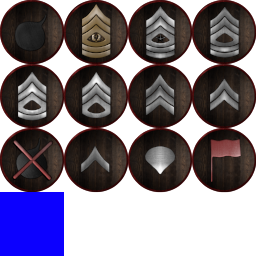
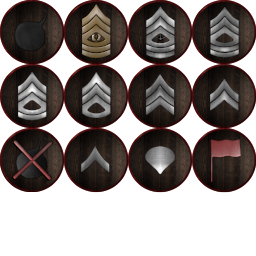
Nouvelles images, resize (buggé) des éléments, meilleure interface

Changed region(s): [[0.0, 0.75, 0.25, 1.0]]

diff --git a/stratego_client.cpp b/stratego_client.cpp
@@ -22,6 +22,20 @@
 #include <thread>
 #include <sstream>
 
+#define DEFAULT_WIDTH 960
+#define DEFAULT_HEIGHT 900
+
+double get_current_scale(gf::Window &window) {
+  double scale = (double)window.getSize().x / DEFAULT_WIDTH;
+  std::cout << "Current scale : " << scale << std::endl;
+  return scale;
+}
+
+/// Calcule la position en fonction de scale
+gf::Vector2u get_current_position(gf::Vector2u default_pos, double scale) {
+  return {(unsigned)(scale * default_pos.x), (unsigned)(scale * default_pos.y)};
+}
+
 #include "c_grid.h"
 
 #include "packet.h"
@@ -198,11 +212,13 @@ bool escFct(tcp::socket* socket, gf::RenderWindow &renderer, gf::UI &ui) {
  * 
  * @return bool true si l'utilisateur a demandé à quitter
  */
-bool displayStateUi(gf::RenderWindow &renderer, gf::UI &ui, State state) {
+bool displayStateUi(gf::Window &window, gf::RenderWindow &renderer, gf::UI &ui, State state) {
   bool ret = false;
 
+  gf::RectF rect(DEFAULT_GRID_X * get_current_scale(window), 0, 640 * get_current_scale(window), 100);
+
   if(state == State::Win) {
-    if(ui.begin("Victoire !", gf::RectF(renderer.getSize().x / 2 - 100, renderer.getSize().y / 2 - 100, 200, 200), gf::UIWindow::Border | gf::UIWindow::Title)) {
+    if(ui.begin("Victoire !", rect, gf::UIWindow::Title)) {
 
       ui.layoutRowDynamic(25, 1);
 
@@ -212,7 +228,7 @@ bool displayStateUi(gf::RenderWindow &renderer, gf::UI &ui, State state) {
     ui.end();
     renderer.draw(ui);
   } else if(state == State::Lose) {
-    if(ui.begin("Défaite...", gf::RectF(renderer.getSize().x / 2 - 100, renderer.getSize().y / 2 - 100, 200, 200), gf::UIWindow::Border | gf::UIWindow::Title)) {
+    if(ui.begin("Défaite...", rect, gf::UIWindow::Title)) {
 
       ui.layoutRowDynamic(25, 1);
 
@@ -224,7 +240,7 @@ bool displayStateUi(gf::RenderWindow &renderer, gf::UI &ui, State state) {
   }
 
   if(state == State::WaitAnswer) {
-    if(ui.begin("Pause", gf::RectF(renderer.getSize().x / 2 - 100, renderer.getSize().y / 2 - 100, 200, 200), gf::UIWindow::Border | gf::UIWindow::Title)) {
+    if(ui.begin("Pause", rect, gf::UIWindow::Title)) {
 
       ui.layoutRowDynamic(25, 1);
 
@@ -236,7 +252,7 @@ bool displayStateUi(gf::RenderWindow &renderer, gf::UI &ui, State state) {
   }
 
   if(state == State::WaitUpdate || state == State::WaitPlayer) {
-    if(ui.begin("Pause", gf::RectF(renderer.getSize().x / 2 - 100, renderer.getSize().y / 2 - 100, 200, 200), gf::UIWindow::Border | gf::UIWindow::Title)) {
+    if(ui.begin("Pause", rect, gf::UIWindow::Title)) {
 
       ui.layoutRowDynamic(25, 1);
 
@@ -253,7 +269,7 @@ bool displayStateUi(gf::RenderWindow &renderer, gf::UI &ui, State state) {
 
   if(state == State::FatalError) {
     // Afficher la fenêtre d'UI
-    if(ui.begin("Erreur", gf::RectF(renderer.getSize().x / 2 - 100, renderer.getSize().y / 2 - 100, 200, 200), gf::UIWindow::Border | gf::UIWindow::Title)) {
+    if(ui.begin("Erreur", rect, gf::UIWindow::Title)) {
 
       ui.layoutRowDynamic(25, 1);
 
@@ -276,7 +292,7 @@ int main(int argc, char *argv[]) {
   srand(time(NULL));
 
   // Initialisation
-  static constexpr gf::Vector2u ScreenSize(768, 700);
+  static constexpr gf::Vector2u ScreenSize(DEFAULT_WIDTH, DEFAULT_HEIGHT);
   gf::Window window("Petit jeu en réseau (client)", ScreenSize);
   window.setFramerateLimit(60);
   gf::RenderWindow renderer(window);
@@ -301,11 +317,11 @@ int main(int argc, char *argv[]) {
   // Grille du jeu
   Grid g(resources);
   g.createGrid();
-  g.setPosition({32, 0});
+  g.setPosition(get_current_position({DEFAULT_GRID_X, DEFAULT_GRID_Y}, get_current_scale(window)));
   entities.addEntity(g);
 
   Selection s(resources);
-  s.setPosition({0, g.getPosition().y + (10 * g.TileSize)});
+  s.setPosition(get_current_position({DEFAULT_SELECT_X, DEFAULT_SELECT_Y}, get_current_scale(window)));
   entities.addEntity(s);
 
   // Boucle de jeu
@@ -348,8 +364,6 @@ int main(int argc, char *argv[]) {
   while(state != State::Connected && window.isOpen()) {
     gf::Event event;
 
-    std::cout << window.getSize().x << window.getSize().y << std::endl;
-
     while(window.pollEvent(event)) {
       actions.processEvent(event);
       ui.processEvent(event);
@@ -391,7 +405,7 @@ int main(int argc, char *argv[]) {
 
     // Fenetre de selection du serveur
     // Afficher la fenêtre d'UI
-    if(ui.begin("Serveur", gf::RectF(0, 0, renderer.getSize().x, renderer.getSize().y), gf::UIWindow::Border | gf::UIWindow::Minimizable | gf::UIWindow::Title)) {
+    if(ui.begin("Serveur", gf::RectF(0, 0, window.getSize().x, window.getSize().y), gf::UIWindow::Border | gf::UIWindow::Title)) {
 
       ui.layoutRowDynamic(30, 1);
 
@@ -620,6 +634,9 @@ int main(int argc, char *argv[]) {
       }
 
       // Update
+      g.update_scale(get_current_scale(window));
+      s.update_scale(get_current_scale(window));
+
       gf::Time time = clock.restart();
       g.update(time);
       // entities.update(time);
@@ -732,7 +749,7 @@ int main(int argc, char *argv[]) {
         }
       }
 
-      if(displayStateUi(renderer, ui, state)) {
+      if(displayStateUi(window, renderer, ui, state)) {
         state = State::Exit;
       }
 
@@ -820,6 +837,9 @@ int main(int argc, char *argv[]) {
     }
 
     // Update
+    g.update_scale(get_current_scale(window));
+    s.update_scale(get_current_scale(window));
+
     gf::Time time = clock.restart();
     g.update(time);
     // entities.update(time);
@@ -917,7 +937,7 @@ int main(int argc, char *argv[]) {
       }
     }
 
-    if(displayStateUi(renderer, ui, state)) {
+    if(displayStateUi(window, renderer, ui, state)) {
       state = State::Exit;
     }
 

diff --git a/c_piece.cpp b/c_piece.cpp
@@ -21,11 +21,13 @@ Selection::Selection(gf::ResourceManager& resources)
 }
 
 void Selection::setPosition(gf::Vector2f origin) {
-  m_layer.setPosition(origin);
+  // m_layer.setPosition(origin);
+  position = origin;
 }
 
 gf::Vector2f Selection::getPosition() {
-  return m_layer.getPosition();
+  // return m_layer.getPosition();
+  return get_current_position(position, scale);
 }
 
 Piece Selection::getPiece(gf::Vector2u coords) {
@@ -69,6 +71,11 @@ gf::Vector2i Selection::getPieceCoordsFromMouse(gf::Vector2f coords) {
   return {(int)((coords.x - getPosition().x) / TileSize), (int)((coords.y - getPosition().y) / TileSize)};
 }
 
+void Selection::update_scale(double new_scale) {
+  scale = new_scale;
+  TileSize = DEFAULT_PIECE_WIDTH * scale;
+}
+
 void Selection::selectPiece(unsigned int pieceNumber) {
   if(pieceNumber < NbPieces && nbPieces[pieceNumber] > 0) {
     selected = pieceNumber;
@@ -107,6 +114,17 @@ int Selection::aleat(int min, int max) {
 
 void Selection::render(gf::RenderTarget& target, const gf::RenderStates& states) {
 
+  // Affichage du fond
+  gf::Texture background_texture;
+  background_texture.loadFromFile("select.png");
+
+  gf::Sprite background;
+  background.setTexture(background_texture);
+  background.setPosition({getPosition().x, getPosition().y});
+
+  background.setScale(scale);
+  target.draw(background);
+
   gf::Texture texture;
   texture.loadFromFile("pieces.png");
 
@@ -122,8 +140,9 @@ void Selection::render(gf::RenderTarget& target, const gf::RenderStates& states)
       r = (int)Rank::Empty;
     }
 
-    gf::Sprite sprite(texture, gf::RectF( ((r * TileSize) % 256) / 256.0, (((r * TileSize) / 256) * TileSize) / 256.0, TileSize / 256.0, TileSize / 256.0));
+    gf::Sprite sprite(texture, gf::RectF( ((r * DEFAULT_PIECE_WIDTH) % 256) / 256.0, (((r * DEFAULT_PIECE_WIDTH) / 256) * DEFAULT_PIECE_WIDTH) / 256.0, DEFAULT_PIECE_WIDTH / 256.0, DEFAULT_PIECE_WIDTH / 256.0));
     sprite.setPosition({getPosition().x + (x * TileSize), getPosition().y});
+    sprite.setScale(scale);
     target.draw(sprite, states);
 
     // Affichage du nombre de pièces restantes
@@ -137,12 +156,14 @@ void Selection::render(gf::RenderTarget& target, const gf::RenderStates& states)
 
   // Affichage de la pièce selectionnée
   if(selected != -1) {
-    gf::Sprite sprite(texture, gf::RectF( ((selected * TileSize) % 256) / 256.0, (((selected * TileSize) / 256) * TileSize) / 256.0, TileSize / 256.0, TileSize / 256.0));
-    sprite.setPosition({mouseCoords.x - TileSize / 2, mouseCoords.y - TileSize / 2});
+    gf::Sprite sprite(texture, gf::RectF( ((selected * DEFAULT_PIECE_WIDTH) % 256) / 256.0, (((selected * DEFAULT_PIECE_WIDTH) / 256) * DEFAULT_PIECE_WIDTH) / 256.0, DEFAULT_PIECE_WIDTH / 256.0, DEFAULT_PIECE_WIDTH / 256.0));
+    sprite.setPosition({(float)(mouseCoords.x - TileSize / 2), (float)(mouseCoords.y - TileSize / 2)});
+    sprite.setScale(scale);
 
     target.draw(sprite, states);
   }
 
+  std::cout << "Test..." << std::endl;
 
   // target.draw(m_layer);
 }

diff --git a/c_grid.cpp b/c_grid.cpp
@@ -42,6 +42,8 @@ Grid::Grid(gf::ResourceManager& resources)
       grid[x][y].rank = Rank::Unknown;
     }
   }
+
+  scale = 1;
 }
 
 void Grid::createGrid() {
@@ -56,11 +58,13 @@ void Grid::createGrid() {
 }
 
 void Grid::setPosition(gf::Vector2f origin) {
-  m_layer.setPosition(origin);
+  // m_layer.setPosition(origin);
+  position = origin;
 }
 
 gf::Vector2f Grid::getPosition() {
-  return m_layer.getPosition();
+  // return m_layer.getPosition();
+  return get_current_position(position, scale);
 }
 
 gf::Vector2i Grid::getPieceCoordsFromMouse(gf::Vector2f coords) {
@@ -106,6 +110,17 @@ void Grid::setPieceRandom(Piece p) {
 void Grid::render(gf::RenderTarget& target, const gf::RenderStates& states) {
   // std::cout << "Dessin..." << std::endl;
   // target.draw(m_layer, states);
+
+  // Affichage du fond
+  gf::Texture background_texture;
+  background_texture.loadFromFile("board.png");
+
+  gf::Sprite background;
+  background.setTexture(background_texture);
+  background.setPosition({getPosition().x - 30, getPosition().y - 30});
+
+  background.setScale(scale);
+  target.draw(background);
 
   // Tracé de la grille
   for(unsigned x = 0; x <= GridSize; x++) {
@@ -159,8 +174,9 @@ void Grid::render(gf::RenderTarget& target, const gf::RenderStates& states) {
         t = &texture;
       }
 
-      gf::Sprite sprite(*t, gf::RectF( ((r * TileSize) % 256) / 256.0, (((r * TileSize) / 256) * TileSize) / 256.0, TileSize / 256.0, TileSize / 256.0));
+      gf::Sprite sprite(*t, gf::RectF( ((r * DEFAULT_PIECE_WIDTH) % 256) / 256.0, (((r * DEFAULT_PIECE_WIDTH) / 256) * DEFAULT_PIECE_WIDTH) / 256.0, DEFAULT_PIECE_WIDTH / 256.0, DEFAULT_PIECE_WIDTH / 256.0));
       sprite.setPosition({getPosition().x + (x * TileSize), getPosition().y + (y * TileSize)});
+      sprite.setScale(scale);
       target.draw(sprite, states);
     }
   }
@@ -180,8 +196,9 @@ void Grid::render(gf::RenderTarget& target, const gf::RenderStates& states) {
       r = (int)grid[selected.x][selected.y].rank;
     }
     
-    gf::Sprite sprite(*t, gf::RectF( ((r * TileSize) % 256) / 256.0, (((r * TileSize) / 256) * TileSize) / 256.0, TileSize / 256.0, TileSize / 256.0));
+    gf::Sprite sprite(*t, gf::RectF( ((r * DEFAULT_PIECE_WIDTH) % 256) / 256.0, (((r * DEFAULT_PIECE_WIDTH) / 256) * DEFAULT_PIECE_WIDTH) / 256.0, DEFAULT_PIECE_WIDTH / 256.0, DEFAULT_PIECE_WIDTH / 256.0));
     sprite.setPosition(spritePos);
+    sprite.setScale(scale);
     target.draw(sprite, states);
     // std::cout << "<" << r << "> affichage..." << spritePos.x << " ; " << spritePos.y << std::endl;
   }
@@ -360,6 +377,11 @@ bool Grid::discoverPiece(gf::Vector2u coords, Rank r) {
 
 bool Grid::isSelected() {
   return selected.x != -1 && selected.y != -1;
+}
+
+void Grid::update_scale(double s) {
+  scale = s;
+  TileSize = (unsigned int)(DEFAULT_PIECE_WIDTH * scale);
 }
 
 std::vector<gf::Vector2u> Grid::getDestinations(gf::Vector2u coords) {

diff --git a/c_piece.h b/c_piece.h
@@ -13,6 +13,19 @@
 
 #include <string>
 
+#define DEFAULT_PIECE_WIDTH 64
+
+#define DEFAULT_SELECT_X 96
+#define DEFAULT_SELECT_Y 804
+
+#define DEFAULT_FIRST_BAR_X 36
+#define DEFAULT_FIRST_BAR_Y 32
+
+#define DEFAULT_SECOND_BAR_X 864
+#define DEFAULT_SECOND_BAR_Y 36
+
+gf::Vector2u get_current_position(gf::Vector2u default_pos, double scale);
+
 /**
  * Camp de la piece : Other pour les éléments neutres (lac / case vide)
  */
@@ -65,7 +78,7 @@ struct Piece {
  */
 class Selection : public gf::Entity {
 public:
-  static constexpr unsigned TileSize = 64;
+  unsigned TileSize = DEFAULT_PIECE_WIDTH;
   static constexpr unsigned NbPieces = 12;
 
   // Indice de la pièce selectionnée (-1 si aucune)
@@ -79,8 +92,6 @@ public:
   gf::Vector2i getPieceCoordsFromMouse(gf::Vector2f coords);
 
   virtual void render(gf::RenderTarget& target, const gf::RenderStates& states) override;
-
-  
 
   void selectPiece(unsigned int pieceNumber);
   void takeOnePiece(unsigned int pieceNumber);
@@ -97,6 +108,9 @@ public:
   /// Indique si il reste des pièces à placer
   bool isEmpty();
 
+  /// Changer la proportion
+  void update_scale(double new_scale);
+
 private:
   /// Nombre aléatoire entre min et max
   int aleat(int min, int max);
@@ -107,6 +121,14 @@ private:
   Piece grid[NbPieces];
 
   gf::Vector2i mouseCoords;
+
+  double scale;
+  gf::Vector2f position;
+
+  enum {
+    Select,
+    Display
+  } state;
 };
 
 #endif

diff --git a/c_grid.h b/c_grid.h
@@ -12,13 +12,16 @@
 
 #include "c_piece.h"
 
+#define DEFAULT_GRID_X 160
+#define DEFAULT_GRID_Y 100
+
 class Grid : public gf::Entity {
 public:
   /// Case sélectionnée (on affiche les déplacements possibles avec cette pièce)
   gf::Vector2i selected = {-1, -1};
 
   /// Taille (pixels) d'une tile
-  static constexpr unsigned TileSize = 64;
+  unsigned TileSize = DEFAULT_PIECE_WIDTH;
 
   /// Nombre de cases dans la grille
   static constexpr unsigned GridSize = 10;
@@ -73,7 +76,13 @@ public:
 
   bool isValidMove(gf::Vector2u coords);
 
+  /// Met à jour la taille de la grille (et donc sa position)
+  void update_scale(double scale);
+
 private:
+  gf::Vector2u position;
+  double scale;
+
   /// Découvre une pièce ennemie (bleue)
   bool discoverPiece(gf::Vector2u coords, Rank r);
 
